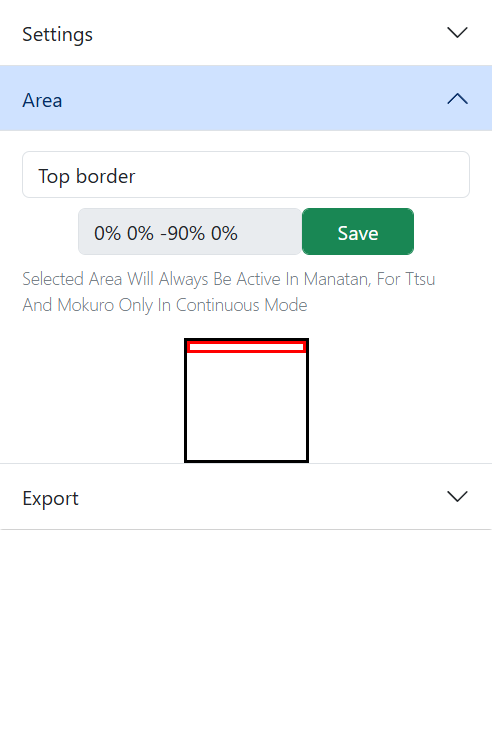
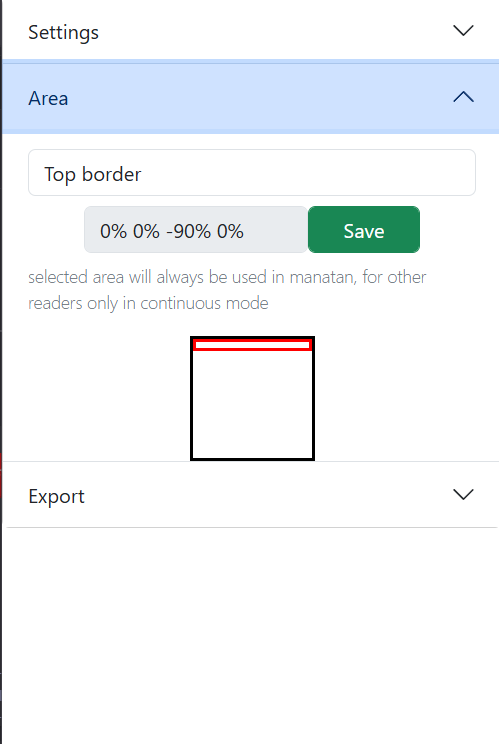
improve area input, remove permession, updated manatan port

Changed region(s): [[0.0, 0.0, 1.0, 1.0], [0.061, 0.2164, 0.2744, 0.2473], [0.9146, 0.6492, 0.9451, 0.6801]]

diff --git a/Extension/popup/js/settings.js b/Extension/popup/js/settings.js
@@ -60,7 +60,10 @@ async function getSettings() {
         }
         changeArea(settings["SelectedPosition"])
         CustomPositionInput.value = settings["Position"][settings["SelectedPosition"]];
-        if(settings["SelectPosition"] === "custom") {
+
+        if(settings["SelectedPosition"] === "custom") {
+            console.log("test");
+
             CustomPositionInput.disabled = false;
         }
     });
@@ -112,13 +115,19 @@ document.addEventListener("DOMContentLoaded", () => {
         let selected = event.target.value;
         changeArea(selected);
         CustomPositionInput.value = settings["Position"][selected];
+        if(selected == "custom") {
+            CustomPositionInput.disabled = false;
+        } else {
+            CustomPositionInput.disabled = true;
+        }
     });
 
     SaveBtn.addEventListener("click", async (event) => {
         let selected = SelectPosition.value;
         settings["SelectedPosition"] = selected;
         if(selected === "custom") {
-            settings["Position"]["custom"] = CustomPositionInput.value;
+            let input = CustomPositionInput.value;
+            settings["Position"]["custom"] = input;
         }
         await chrome.storage.local.set({ settings: settings });
     });
@@ -131,6 +140,7 @@ document.addEventListener("DOMContentLoaded", () => {
         spinner.removeAttribute("hidden");
         exportCSV(StartDate, EndDate, importCheckbox);
     });
+
 
 });
 

diff --git a/Extension/popup/settings.html b/Extension/popup/settings.html
@@ -72,12 +72,13 @@
                 <option value="custom">Custom</option>
               </select>
               <div class="d-flex justify-content-center my-2">
-                <input id="customPosition" class="form-control w-50" type="text" disabled>
+                <input id="customPosition" class="form-control w-50" type="text" pattern="(\s?-?\d+(px|%)\s?){1,4}"
+                  disabled>
                 <button id="saveButton" class="form-control btn btn-success w-25">Save</button>
               </div>
-              <label class="text-secondary fw-light small text-capitalize">selected area will always be active in
+              <label class="text-secondary fw-light small">selected area will always be used in
                 manatan, for
-                ttsu and mokuro only in continuous mode</label>
+                other readers only in continuous mode</label>
             </div>
             <div class="row justify-content-center">
               <div class="p-0" style="border-color: black; border-style: solid; width: 100px; height: 100px;">

diff --git a/Extension/scripts/content.js b/Extension/scripts/content.js
@@ -346,7 +346,7 @@ function checkUrl() {
         subtree: true,
       });
     }
-  } else if(url.port == "4568" && namepath[1] == "manga" && namepath[3] == "chapter" && settings["Active"] === true) {
+  } else if(url.port == "4567" && namepath[1] == "manga" && namepath[3] == "chapter" && settings["Active"] === true) {
     mode = "manatan";
     found = findAndStartObserver();
     if(!found) {
